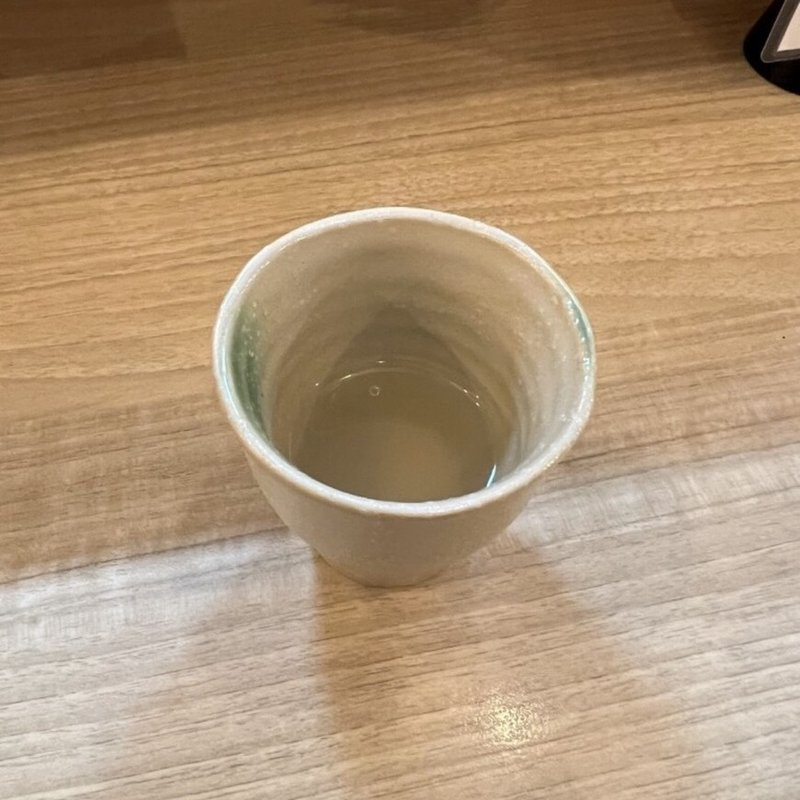
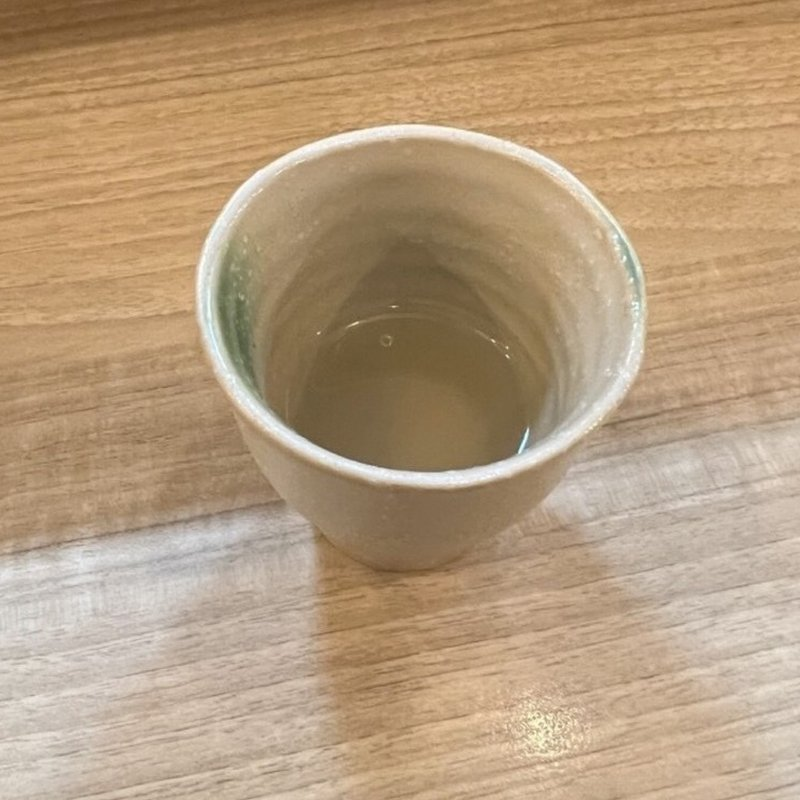
Add files via upload

diff --git a/src/styles/global.css b/src/styles/global.css
@@ -433,3 +433,7 @@ a:hover { color: var(--mustard); }
 .pure h3 { color: var(--mustard); font-size: var(--step-1); }
 .pure p { margin: 0; }
 @media (max-width: 760px) { .soup-grid { grid-template-columns: 1fr; } }
+
+/* こだわりページの切り抜き写真 */
+.concept-row img.is-cutout { object-fit: contain; box-shadow: none; padding: 4% 12%; filter: drop-shadow(0 18px 22px rgba(0,0,0,.6));
+  background: radial-gradient(ellipse 55% 55% at 50% 52%, rgba(226,174,54,.16), rgba(226,174,54,0) 70%); }
